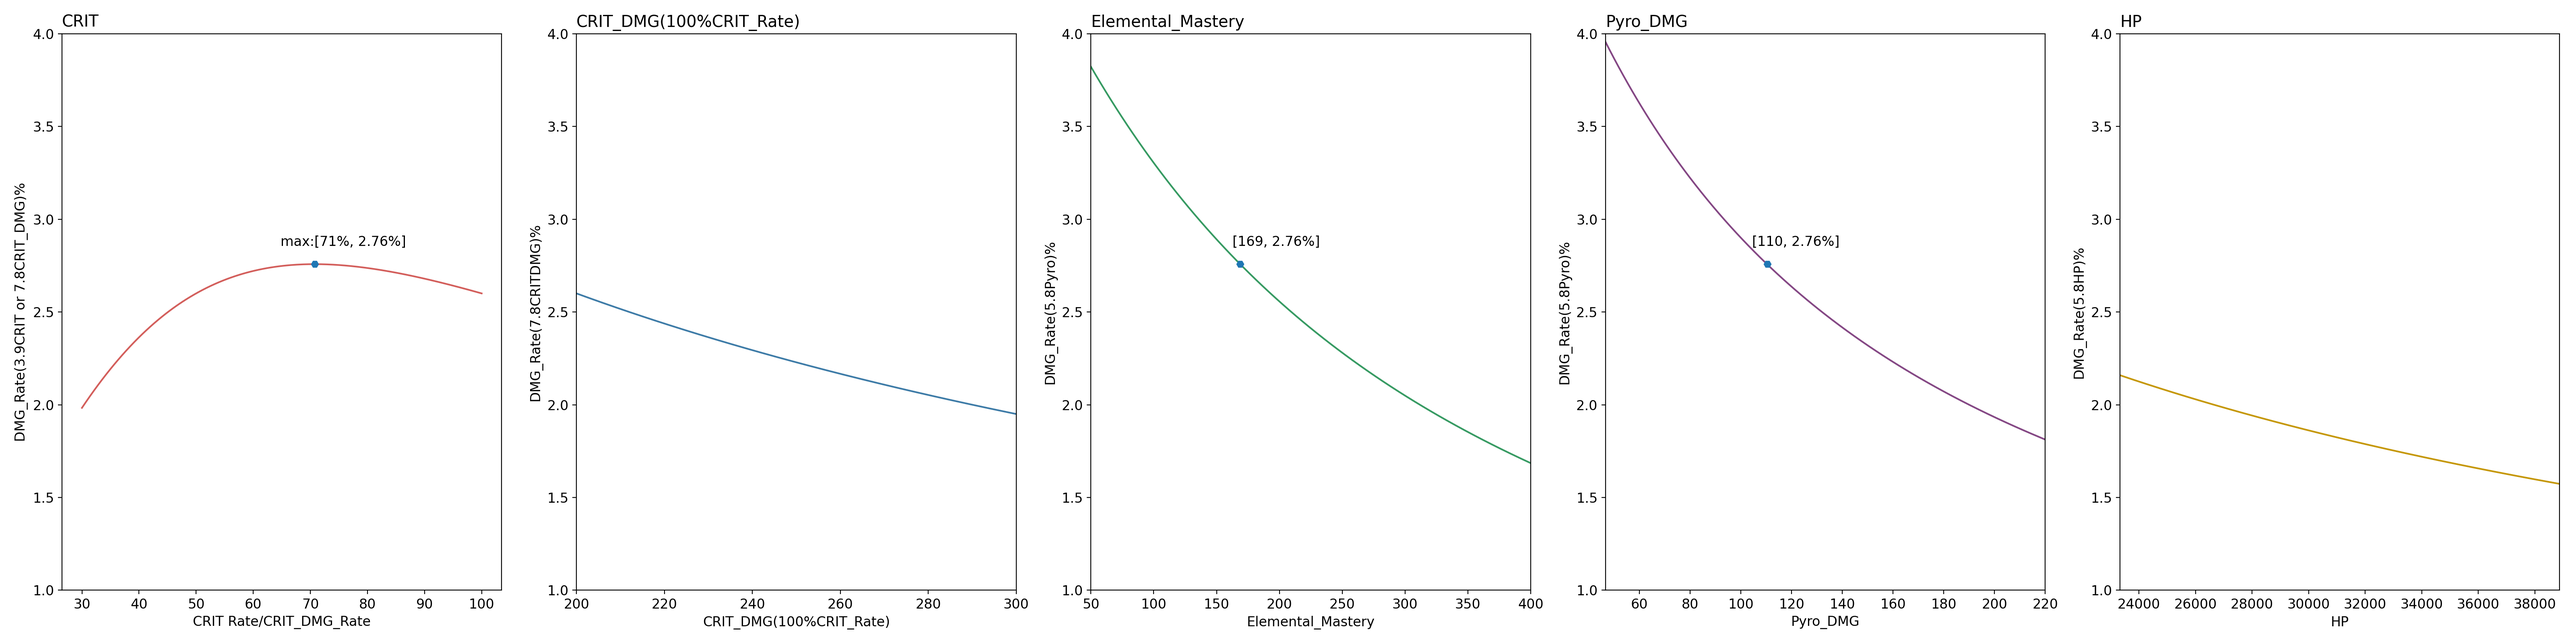
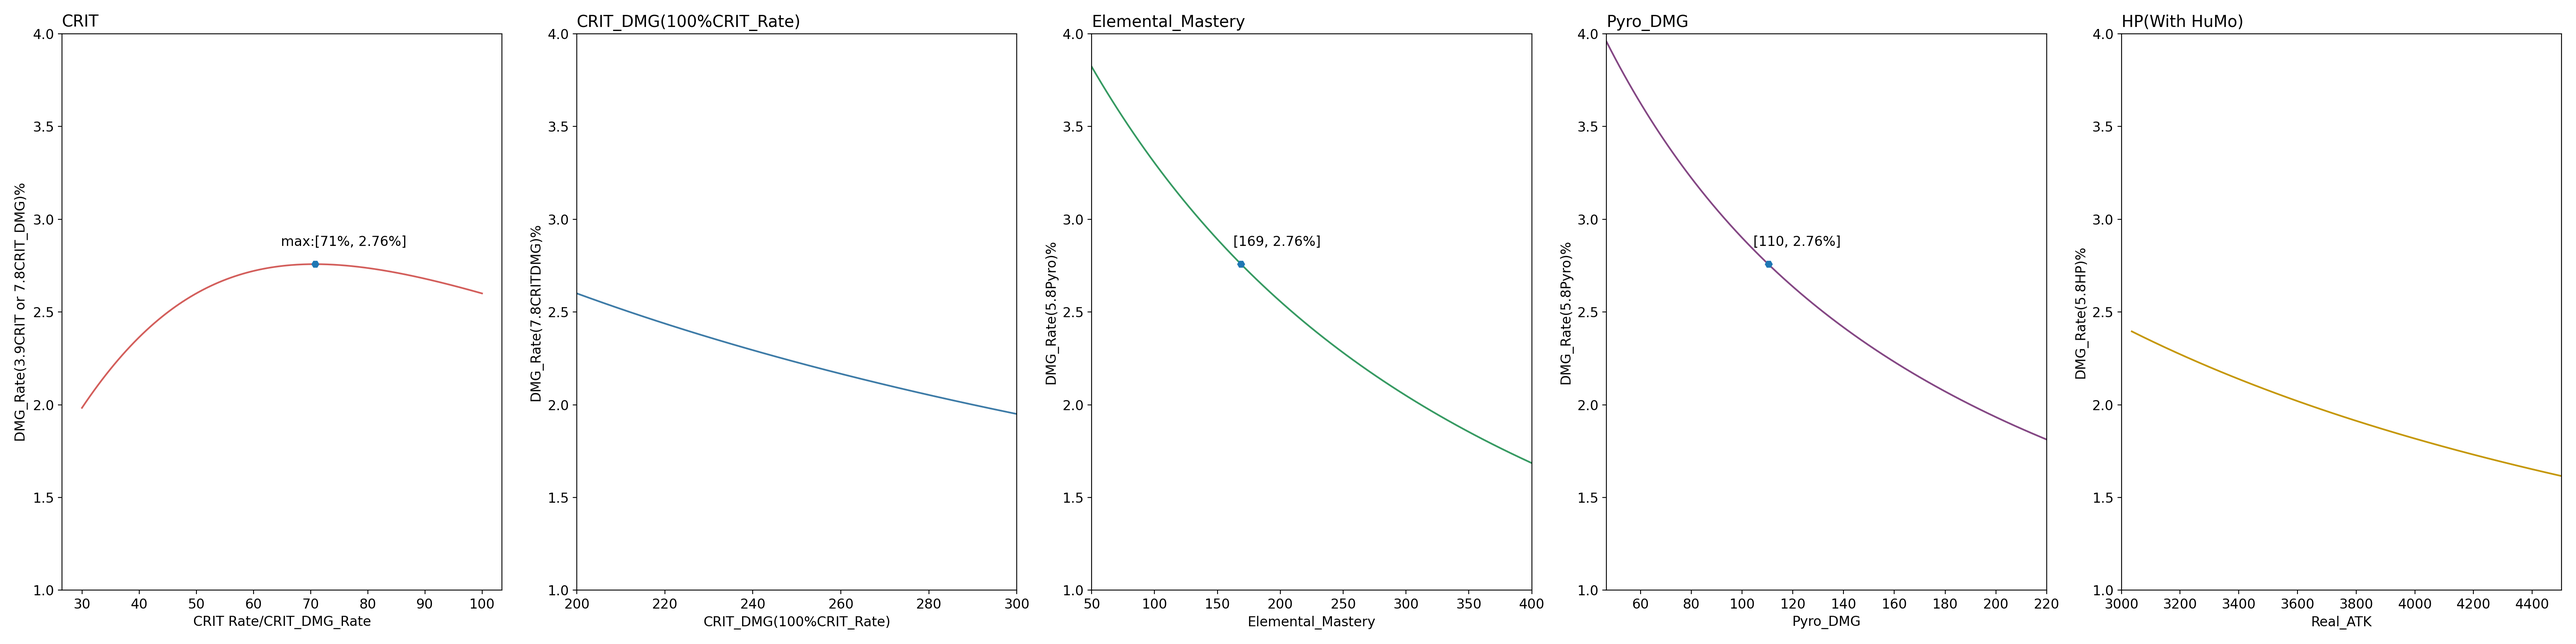
HuTao heihei

diff --git a/genshinDMG/FunctionDMG.py b/genshinDMG/FunctionDMG.py
@@ -139,7 +139,7 @@ def YeLan():
 # 计算胡桃的收益
 def HuTao():
     #=========计算暴击收益=========
-    CRIT_Rate = np.linspace(30,100,200)         
+    CRIT_Rate = np.linspace(30,100,200)  
     DMG_Rate_CRIT = ((1 + (CRIT_Rate+3.9)/100 * (2*CRIT_Rate)/100) / (1 + CRIT_Rate/100 * 2*CRIT_Rate/100) -1) * 100
 
     #找极值点
@@ -152,11 +152,11 @@ def HuTao():
 
     #=========计算生命收益=========
     Basic_HP = 15552
-    HP_Bonus_Per = np.linspace(50,150,200)
+    HP_Bonus_Per = np.linspace(50,250,200)
     HP = Basic_HP * (1+HP_Bonus_Per/100)
     Basic_ATK = 1155 # HuTao_HuMo_ZhuiYi_Basic_ATK = 715*1.18+311
-    ATK = HP*0.0626 + Basic_ATK
-    DMG_Rate_HP = (((HP+Basic_HP*0.058)*0.0626 + Basic_ATK) / ATK - 1) * 100
+    ATK = HP*(0.0626+0.018) + Basic_ATK # 0.018是一精护摩
+    DMG_Rate_HP = (((HP+Basic_HP*0.058)*(0.0626+0.018) + Basic_ATK) / ATK - 1) * 100
     
     #=========计算火伤收益=========
     Pyro_DMG = np.linspace(46.6,220,300)
@@ -233,10 +233,10 @@ def HuTao():
 
     #=========生命收益图=========
     plt.subplot(155)
-    plt.plot(HP,DMG_Rate_HP,color=colorList[5])
-    plt.xlabel("HP")
+    plt.plot(ATK,DMG_Rate_HP,color=colorList[5])
+    plt.xlabel("Real_ATK")
     plt.ylabel("DMG_Rate(5.8HP)%")
-    plt.xlim(Basic_HP*1.5,Basic_HP*2.5)
+    plt.xlim(3000,4500)
     plt.ylim(1,4)
     
     # #画出对应收益点
@@ -246,17 +246,66 @@ def HuTao():
     # show_HP=f"[{str(round(HP[Correspond_Index]))}, {str(round(Correspond_Value,2))}%]"
     # plt.annotate(show_HP,xy=(HP[Correspond_Index],Correspond_Value),xytext=(HP[Correspond_Index]-6,Correspond_Value+0.1))
     
-    plt.title('HP',loc='left')
+    plt.title('HP(With HuMo)',loc='left')
 
 
     plt.tight_layout() 
     plt.savefig(PhotoName,dpi=200,format='png')
 
+
+# 看胡桃的收益平衡性
+def HuTao_balance():
+    #=========输入面板========= 
+    Input = input("""请将胡桃面板按顺序(开E攻击力 火伤加成 元素精通 暴击率 暴击伤害)依次输入，空格隔开：\n""")
+    Attribute = np.array([float(n) for n in Input.split()])
+    ATK = Attribute[0]
+    Pyro_DMG = Attribute[1]
+    EM = Attribute[2]  
+    CRIT_Rate = Attribute[3]
+    CRIT_DMG = Attribute[4]
+
+    #=========暴击收益========= 
+    DMG_Rate_CRIT = ((1 + (CRIT_Rate+3.9)/100 * (CRIT_DMG)/100) / (1 + CRIT_Rate/100 * CRIT_DMG/100) -1) * 100
+    if CRIT_Rate > 96.1:
+        DMG_Rate_CRIT = ((1 + CRIT_DMG/100) / (1 + CRIT_Rate/100 * CRIT_DMG/100) -1) * 100
+
+    #========爆伤收益==========
+    DMG_Rate_CRITDMG = ((1 + CRIT_Rate/100 * (CRIT_DMG+7.8)/100) / (1 + CRIT_Rate/100 * CRIT_DMG/100) -1) * 100
+    
+    #=========生命收益=========
+    Basic_HP = 15552
+    DMG_Rate_HP = (((Basic_HP*0.058)*(0.0626+0.018) + ATK) / ATK - 1) * 100
+    
+    #=========火伤收益=========
+    DMG_Rate_Pyro = ((1+Pyro_DMG/100+0.058) / (1+Pyro_DMG/100) -1) * 100
+    
+    #=========精通收益=========  
+    DMG_Rate_EM = ((25*(EM+23)/(9*(EM+23+1400))+1)/(25*EM/(9*(EM+1400))+1) - 1) * 100 
+
+    #=========期望伤害========= 
+    DMG = ATK * (1 + Pyro_DMG/100) * (1 + CRIT_Rate/100 * CRIT_DMG/100) * 1.5 * (1 + 25*EM/(9*(EM+1400)+1)) * 2.426 * 0.45
+    After_CRIT_DMG = ATK * (1 + Pyro_DMG/100) * (1 + CRIT_DMG/100) * 1.5 * (1 + 25*EM/(9*(EM+1400)+1)) * 2.426 * 0.45
+    Profit = [DMG_Rate_HP, DMG_Rate_Pyro, DMG_Rate_EM, DMG_Rate_CRIT, DMG_Rate_CRITDMG]
+
+    #=========画图=========
+    fig, ax = plt.subplots()
+    X = ["HP", "Pyro_DMG", "EM", "CRIT_Rate", "CRIT_DMG"]
+    ax.bar(X, Profit, width=0.4, color = [colorList[0], colorList[5], colorList[1], colorList[3], colorList[2]])
+    ax.set(ylim=(1, 4))
+
+    StringDMG = "Expected_DMG = " + str(int(DMG)) + "\nCRIT_DMG = " + str(int(After_CRIT_DMG))
+    plt.title(StringDMG,loc='right')
+    plt.tight_layout() 
+    plt.savefig("HuTao_balance.png",dpi=200,format='png')
+    plt.show()
+
 ##=========================================================
 ##=======                  主代码                  =========
 ##=========================================================
 def main():
-    HuTao()
+    # HuTao()
+    HuTao_balance()
+    
     # Basic_ATK = int(input("请输入人物基础攻击力："))
     # GenOrNot = float(input("若计算通用情况，请输入0.0; 若计算夜兰, 请输入1.0; 若计算冰套双冰永动体系，请输入面板暴击率："))
     
